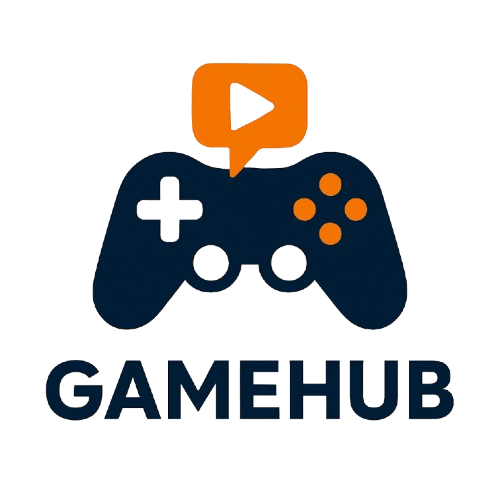
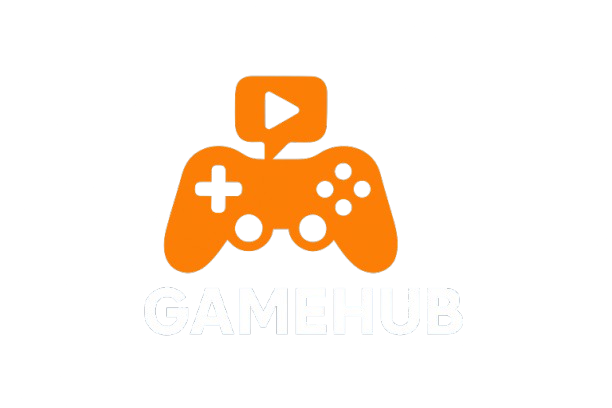
add responsiveness for all devices

Changed region(s): [[0.18, 0.1176, 0.84, 0.6765], [0.09, 0.7059, 0.93, 0.8529]]

diff --git a/src/Components/Slider.jsx b/src/Components/Slider.jsx
@@ -22,18 +22,17 @@ const Slider = () => {
         modules={[Autoplay, Pagination, Navigation]}
         className="mySwiper"
       >
-        <SwiperSlide><img className='w-[1500px] h-[500px] object-fit transition-transform duration-500 hover:scale-95' src="https://m.media-amazon.com/images/I/91rTxm40jwL.jpg" alt="" /></SwiperSlide>
-        <SwiperSlide><img className='w-[1500px] h-[500px] object-fit transition-transform duration-500 hover:scale-95' src="https://gmedia.playstation.com/is/image/SIEPDC/apex-legends-listing-thumb-01-ps4-en-29oct20?$facebook$" alt="" /></SwiperSlide>
-        <SwiperSlide><img className='w-[1500px] h-[500px] object-fit transition-transform duration-500 hover:scale-95' src="https://static0.xdaimages.com/wordpress/wp-content/uploads/2018/06/pubg.jpg?w=1200&h=675&fit=crop" alt="" /></SwiperSlide>
-        <SwiperSlide><img className='w-[1500px] h-[500px] object-fit transition-transform duration-500 hover:scale-95' src="https://shared.akamai.steamstatic.com/store_item_assets/steam/apps/1517290/capsule_616x353.jpg?t=1761752400" alt="" /></SwiperSlide>
-        <SwiperSlide><img className='w-[1500px] h-[500px] object-fit transition-transform duration-500 hover:scale-95' src="https://www.riotgames.com/darkroom/1440/d0807e131a84f2e42c7a303bda672789:3d02afa7e0bfb75f645d97467765b24c/valorant-offwhitelaunch-keyart.jpg" alt="" /></SwiperSlide>
-        <SwiperSlide><img className='w-[1500px] h-[500px] object-fit transition-transform duration-500 hover:scale-95' src="https://www.csgoroll.com/blog/content/images/size/w2000/2025/01/counter-strike-2-pc-game-steam-cover.jpg" alt="" /></SwiperSlide>
-        <SwiperSlide><img className='w-[1500px] h-[500px] object-fit transition-transform duration-500 hover:scale-95' src="https://shared.akamai.steamstatic.com/store_item_assets/steam/apps/292030/ad9240e088f953a84aee814034c50a6a92bf4516/header.jpg?t=1756366569" alt="" /></SwiperSlide>
-        <SwiperSlide><img className='w-[1500px] h-[500px] object-fit transition-transform duration-500 hover:scale-95' src="https://shared.akamai.steamstatic.com/store_item_assets/steam/apps/570/capsule_616x353.jpg?t=1762820658" alt="" /></SwiperSlide>
-        <SwiperSlide><img className='w-[1500px] h-[500px] object-fit transition-transform duration-500 hover:scale-95' src="https://i.ebayimg.com/images/g/oyEAAOSwIBdijBIx/s-l400.jpg" alt="" /></SwiperSlide>
-        <SwiperSlide><img className='w-[1500px] h-[500px] object-fit transition-transform duration-500 hover:scale-95' src="https://cdnb.artstation.com/p/assets/covers/images/076/962/927/large/nicholas-maxson-francombe-nicholas-maxson-francombe-2023-10-26-keyartexp33-full-1.jpg?1718223251" alt="" /></SwiperSlide>
-        <SwiperSlide><img className='w-[1500px] h-[500px] object-fit transition-transform duration-500 hover:scale-95' src="https://www.bluedogposters.com.au/cdn/shop/collections/Minecraft_posters_online_750x.progressive.jpg?v=1688105706" alt="" /></SwiperSlide>
-
+        <SwiperSlide><img className='w-full h-[200px] md:h-[300px] lg:h-[500px] object-fit transition-transform duration-500 hover:scale-95' src="https://m.media-amazon.com/images/I/91rTxm40jwL.jpg" alt="" /></SwiperSlide>
+        <SwiperSlide><img className='w-full h-[200px] md:h-[300px] lg:h-[500px] object-fit transition-transform duration-500 hover:scale-95' src="https://gmedia.playstation.com/is/image/SIEPDC/apex-legends-listing-thumb-01-ps4-en-29oct20?$facebook$" alt="" /></SwiperSlide>
+        <SwiperSlide><img className='w-full h-[200px] md:h-[300px] lg:h-[500px] object-fit transition-transform duration-500 hover:scale-95' src="https://static0.xdaimages.com/wordpress/wp-content/uploads/2018/06/pubg.jpg?w=1200&h=675&fit=crop" alt="" /></SwiperSlide>
+        <SwiperSlide><img className='w-full h-[200px] md:h-[300px] lg:h-[500px] object-fit transition-transform duration-500 hover:scale-95' src="https://shared.akamai.steamstatic.com/store_item_assets/steam/apps/1517290/capsule_616x353.jpg?t=1761752400" alt="" /></SwiperSlide>
+        <SwiperSlide><img className='w-full h-[200px] md:h-[300px] lg:h-[500px] object-fit transition-transform duration-500 hover:scale-95' src="https://www.riotgames.com/darkroom/1440/d0807e131a84f2e42c7a303bda672789:3d02afa7e0bfb75f645d97467765b24c/valorant-offwhitelaunch-keyart.jpg" alt="" /></SwiperSlide>
+        <SwiperSlide><img className='w-full h-[200px] md:h-[300px] lg:h-[500px] object-fit transition-transform duration-500 hover:scale-95' src="https://www.csgoroll.com/blog/content/images/size/w2000/2025/01/counter-strike-2-pc-game-steam-cover.jpg" alt="" /></SwiperSlide>
+        <SwiperSlide><img className='w-full h-[200px] md:h-[300px] lg:h-[500px] object-fit transition-transform duration-500 hover:scale-95' src="https://shared.akamai.steamstatic.com/store_item_assets/steam/apps/292030/ad9240e088f953a84aee814034c50a6a92bf4516/header.jpg?t=1756366569" alt="" /></SwiperSlide>
+        <SwiperSlide><img className='w-full h-[200px] md:h-[300px] lg:h-[500px] object-fit transition-transform duration-500 hover:scale-95' src="https://shared.akamai.steamstatic.com/store_item_assets/steam/apps/570/capsule_616x353.jpg?t=1762820658" alt="" /></SwiperSlide>
+        <SwiperSlide><img className='w-full h-[200px] md:h-[300px] lg:h-[500px] object-fit transition-transform duration-500 hover:scale-95' src="https://i.ebayimg.com/images/g/oyEAAOSwIBdijBIx/s-l400.jpg" alt="" /></SwiperSlide>
+        <SwiperSlide><img className='w-full h-[200px] md:h-[300px] lg:h-[500px] object-fit transition-transform duration-500 hover:scale-95' src="https://cdnb.artstation.com/p/assets/covers/images/076/962/927/large/nicholas-maxson-francombe-nicholas-maxson-francombe-2023-10-26-keyartexp33-full-1.jpg?1718223251" alt="" /></SwiperSlide>
+        <SwiperSlide><img className='w-full h-[200px] md:h-[300px] lg:h-[500px] object-fit transition-transform duration-500 hover:scale-95' src="https://www.bluedogposters.com.au/cdn/shop/collections/Minecraft_posters_online_750x.progressive.jpg?v=1688105706" alt="" /></SwiperSlide>
       </Swiper>
     </div>
   )

diff --git a/src/Pages/GameDetails.jsx b/src/Pages/GameDetails.jsx
@@ -11,74 +11,74 @@ const GameDetails = () => {
     if (loading) return <div>Game not found</div>;
   
     return (
-    <div className="min-h-screen bg-gray-900 text-white">
-      
-      <div className="relative h-96 sm:h-[500px] overflow-hidden">
-        <img
-          src={game.coverPhoto}
-          alt={game.title}
-          className="w-full h-full object-cover brightness-50"
-        />
-        
-        <div className="absolute inset-0 bg-linear-to-t from-gray-900 via-gray-900/60 to-transparent" />
-        
-        <div className="absolute bottom-0 left-0 right-0 p-6 sm:p-10 max-w-6xl mx-auto">
-          <div className="flex flex-col sm:flex-row items-start sm:items-end gap-8">
-            <img
-              src={game.coverPhoto}
-              alt={game.title}
-              className="w-40 h-56 sm:w-48 sm:h-64 rounded-xl shadow-2xl border-4 border-gray-800 object-cover"
-            />
-            
-            <div className="flex-1">
-              <h1 className="text-4xl sm:text-6xl font-black tracking-tight drop-shadow-lg">
+   <div className="min-h-screen bg-gray-900 text-white">
+  {/* Hero Section */}
+  <div className="relative h-96 sm:h-[500px] lg:h-[600px] overflow-hidden">
+    <img
+      src={game.coverPhoto}
+      alt={game.title}
+      className="absolute inset-0 w-full h-full object-cover brightness-50"
+    />
+
+    {/* Fixed gradient overlay */}
+    <div className="absolute inset-0 bg-gradient-to-t from-gray-900 via-gray-900/60 to-transparent" />
+
+    <div className="absolute inset-x-0 bottom-0 p-6 sm:p-8 lg:p-12">
+      <div className="max-w-7xl mx-auto">
+        <div className="flex flex-col gap-6 sm:gap-8 lg:flex-row lg:items-end">
+          {/* Game Cover */}
+          
+
+          {/* Text Content */}
+          <div className="flex-1 space-y-4 lg:space-y-6">
+            <div>
+              <h1 className="text-3xl sm:text-5xl lg:text-6xl font-black tracking-tight drop-shadow-2xl">
                 {game.title}
               </h1>
-              
-              <p className="text-xl sm:text-2xl text-gray-300 mt-2 font-medium">
+              <p className="text-lg sm:text-xl lg:text-2xl text-gray-300 mt-2 font-medium">
                 by <span className="text-purple-400">{game.developer}</span>
               </p>
-
-              <div className="flex flex-wrap gap-3 mt-6">
-                <span className="px-4 py-2 bg-purple-600/80 backdrop-blur rounded-full text-sm font-semibold">
-                  {game.category}
-                </span>
-                <span className="px-4 py-2 bg-yellow-500/20 backdrop-blur rounded-full text-sm font-semibold flex items-center gap-2">
-                  <Star className="w-4 h-4 fill-yellow-500 text-yellow-500" />
-                  {game.ratings} / 5.0
-                </span>
-              </div>
-
-              <a
-                href={game.downloadLink}
-                target="_blank"
-                rel="noopener noreferrer"
-                className="inline-flex items-center gap-3 mt-8 px-8 py-4 bg-linear-to-r from-purple-600 to-pink-600 hover:from-purple-500 hover:to-pink-500 rounded-xl font-bold text-lg shadow-xl transition-all transform hover:scale-105"
-              >
-                <Download className="w-6 h-6" />
-                Download Now
-              </a>
             </div>
+
+            <div className="flex flex-wrap gap-3">
+              <span className="px-4 py-2 bg-purple-600/80 backdrop-blur rounded-full text-sm font-semibold">
+                {game.category}
+              </span>
+              <span className="px-4 py-2 bg-yellow-500/20 backdrop-blur rounded-full text-sm font-semibold flex items-center gap-2">
+                <Star className="w-4 h-4 fill-yellow-500 text-yellow-500" />
+                {game.ratings} / 5.0
+              </span>
+            </div>
+
+            <a
+              href={game.downloadLink}
+              target="_blank"
+              rel="noopener noreferrer"
+              className="inline-flex items-center gap-3 px-6 py-3 sm:px-8 sm:py-4 bg-gradient-to-r from-purple-600 to-pink-600 hover:from-purple-500 hover:to-pink-500 rounded-xl font-bold text-lg shadow-xl transition-all transform hover:scale-105"
+            >
+              <Download className="w-5 h-5 sm:w-6 sm:h-6" />
+              Download Now
+            </a>
           </div>
         </div>
       </div>
+    </div>
+  </div>
 
-      {/* Content Section */}
-      <div className="max-w-5xl mx-auto px-6 py-12 -mt-16 relative z-10">
-        <div className="bg-gray-800/90 backdrop-blur-lg rounded-3xl shadow-2xl border border-gray-700 p-8 sm:p-12">
-          <h2 className="text-3xl font-bold mb-6 flex items-center gap-3">
-            <Globe className="w-8 h-8 text-purple-400" />
-            About This Game
-          </h2>
+  {/* About Card - Now properly responsive */}
+  <div className="max-w-7xl mx-auto px-6 py-16 -mt-12 sm:-mt-20 lg:-mt-32 relative z-10">
+    <div className="bg-gray-800/90  backdrop-blur-lg rounded-3xl shadow-2xl border md:mt-10 border-gray-700 p-8 sm:p-10 lg:p-12">
+      <h2 className="text-2xl sm:text-3xl font-bold mb-6 flex items-center gap-3">
+        <Globe className="w-7 h-7 sm:w-8 sm:h-8 text-purple-400" />
+        About This Game
+      </h2>
 
-          <p className="text-gray-300 leading-relaxed text-lg whitespace-pre-line">
-            {game.description}
-          </p>
-
-         
-          </div>
-        </div>
-      </div>
+      <p className="text-gray-300 leading-relaxed text-base sm:text-lg whitespace-pre-line">
+        {game.description}
+      </p>
+    </div>
+  </div>
+</div>
     
   );
 }

diff --git a/src/Components/Navbar.jsx b/src/Components/Navbar.jsx
@@ -4,6 +4,7 @@ import { AuthContext } from '../Provider/AuthProvider';
 import { Key, LogIn, LogOut } from 'lucide-react';
 import { signOut } from 'firebase/auth';
 import auth from '../firebase/firebase.config';
+import { scale } from 'motion';
 
 const Navbar = () => {
   const {user} = useContext(AuthContext)
@@ -13,7 +14,7 @@ const Navbar = () => {
   } 
   return (
     <div>
-      <div className="navbar z-10 bg-[#0f172a] text-gray-300 border-t border-white/10 w-full text-grey font-bold shadow-sm">
+      <div className="navbar z-10 bg-[#0f172a] text-orange-500  border-t border-white/10 w-full text-grey font-bold shadow-sm">
         <div className="navbar-start">
           <div className="dropdown">
             <div tabIndex={0} role="button" className="btn btn-ghost lg:hidden">
@@ -48,8 +49,8 @@ const Navbar = () => {
               </li>
             </ul>
           </div>
-          <NavLink className="flex btn btn-ghost">
-            <img className="h-16 w-16" src="../gh.png" alt="" />
+          <NavLink className="flex lg:pl-4">
+            <img className="h-16 w-24 hover:scale-120"  src="../gh.png" alt="" />
           </NavLink>
         </div>
         <div className="navbar-center hidden lg:flex">
@@ -63,6 +64,7 @@ const Navbar = () => {
             <li>
               <Link to="/news">News</Link>
             </li>
+            
           </ul>
         </div>
 
@@ -70,23 +72,23 @@ const Navbar = () => {
           {user && (
             <div className='flex gap-2'>
               <Link to="/profile"><img className='w-10 h-10 rounded-4xl hover:scale-110' src={user.photoURL} alt="" /></Link>
-              <button onClick={handleSignOut} className="btn border-0 shadow text-white bg-black"><LogOut /> Logout</button>
+              <button onClick={handleSignOut} className="btn border-0 shadow rounded-3xl gap-1 hover:scale-110 text-white bg-orange-500"> Logout</button>
             </div>
           )}
 
           {!user && (
-            <div>
+            <div className='space-x-2'>
               <Link
                 to="/login"
-                className="btn border-0 shadow text-white bg-black"
+                className="btn border-0 rounded-3xl shadow hover:scale-110 text-white bg-orange-500"
               >
-                <LogIn /> Login
+                 Login
               </Link>
               <Link
                 to="/register"
-                className="btn border-0 shadow text-white bg-black"
+                className="btn border-0 rounded-3xl shadow  hover:scale-110 text-white bg-orange-500"
               >
-                <Key /> Register
+                 Register
               </Link>
             </div>
           )}

diff --git a/src/Components/GameCard.jsx b/src/Components/GameCard.jsx
@@ -7,8 +7,8 @@ import { motion } from "motion/react"
 const GameCard = ({game}) => {
 
     return (
-        <motion.Link initial={ { scale:0.5 } } animate={{scale: 1, transition: { duration: 1 }}} to={`/game/${game.id}`} className="card image-full w-96 h-96 shadow-xl rounded-xl overflow-hidden group">
-
+        <motion.div initial={ { scale:0.5 } } animate={{scale: 1, transition: { duration: 1 }}} >
+            <Link to={`/game/${game.id}`} className="card image-full md:w-96 md:h-96 shadow-xl rounded-xl overflow-hidden group">
             <figure className="absolute inset-0">
                 <img
                     src={game.coverPhoto}
@@ -20,14 +20,14 @@ const GameCard = ({game}) => {
             <div className="card-body relative p-0 justify-end">
                 <div className="absolute inset-0 bg-linear-to-t from-black/90 via-black/30 to-transparent"></div>
                 <div className="relative z-10 p-6 space-y-3">
-                    <h2 className="card-title text-2xl text-white drop-shadow-lg">{game.title}</h2>
+                    <h2 className="card-title md:text-2xl text-white drop-shadow-lg">{game.title}</h2>
                     <div className="flex justify-between items-center text-white">
-                        <span className="px-4 py-2 bg-white/20 backdrop-blur-sm rounded-full text-sm font-medium border border-white/30">{game.category}</span>
+                        <span className="px-2 md:px-4 py-2 bg-white/20 backdrop-blur-sm rounded-full text-sm font-medium border border-white/30">{game.category}</span>
                         <span className="flex items-center gap-2 text-lg font-semibold"><FaStar className="text-yellow-400 drop-shadow" /> {game.ratings} </span>
                     </div>
                 </div>
-            </div>
-</motion.Link>
+            </div></Link>
+</motion.div>
   )
 }
 

diff --git a/src/Components/Newsletter.jsx b/src/Components/Newsletter.jsx
@@ -3,13 +3,13 @@ import React from 'react'
 const Newsletter = () => {
   return (
     <div>
-      <section className="py-20 pb-24 lg:pb-32 bg-gradient-to-b from-slate-900 via-blue-950 to-indigo-950">
+      <section className="py-10 md:py-16 lg:py-20 pb-24 lg:pb-32 bg-linear-to-b from-slate-900 via-blue-950 to-indigo-950">
   <div className="max-w-4xl mx-auto px-6 text-center">
-    <h2 className="text-4xl md:text-5xl font-bold text-white mb-6">
-      Never miss an update
+    <h2 className="text-4xl md:text-5xl font-bold text-orange-500 mb-6">
+      Never miss an update!
     </h2>
     
-    <p className="text-xl text-white/90 mb-10 max-w-2xl mx-auto leading-relaxed">
+    <p className="md:text-xl text-white/90 mb-10 max-w-2xl mx-auto leading-relaxed">
       Join 25,000+ subscribers and get the latest news, insights, and exclusive content 
       delivered straight to your inbox every week.
     </p>
@@ -21,7 +21,7 @@ const Newsletter = () => {
         className="flex-1 px-6 py-4 rounded-xl text-gray-900 placeholder-gray-500 focus:outline-none ring-4 focus:ring-white/30"
       />
       
-      <button className="px-8 py-4 bg-white text-purple-700 font-semibold rounded-xl hover:bg-gray-50 transition whitespace-nowrap">
+      <button className="px-8 py-4 bg-orange-500 text-white font-semibold hover:scale-110 rounded-xl transition whitespace-nowrap">
         Subscribe Now
       </button>
     </div>

diff --git a/src/Pages/Profile.jsx b/src/Pages/Profile.jsx
@@ -5,24 +5,24 @@ const Profile = () => {
     const {user} = useContext(AuthContext)
     console.log(user)
   return (
-    <div className="max-w-sm mx-auto bg-white rounded-xl shadow-lg overflow-hidden">
-      <div className="bg-gradient-to-r from-indigo-500 to-purple-600 p-6 text-center">
+    <div className="max-w-sm mx-auto mt-10 bg-white rounded-xl shadow-lg overflow-hidden">
+      <div className="bg-[#0f172a] p-6 text-center">
         <img
           src={user.photoURL}
           alt="Profile"
-          className="w-32 h-32 rounded-full mx-auto border-4 border-white shadow-xl object-cover"
+          className="w-32 h-32 rounded-full mx-auto border-4 border-orange-500 shadow-xl object-cover"
         />
       </div>
 
       <div className="p-6 space-y-4">
         <div className="text-center">
-          <h2 className="text-2xl font-bold text-gray-800">{user.displayName}</h2>
+          <h2 className="text-2xl font-bold text-orange-500">{user.displayName}</h2>
           <p className="text-gray-500 text-sm">@{user.displayName}</p>
         </div>
 
         <div className="space-y-3 text-gray-700">
           <div className="flex items-center gap-3">
-            <span className="font-medium">Email:</span>
+            <span className="font-medium text-orange-500">Email:</span>
             <span className="text-gray-600">{user.email}</span>
           </div>
         </div>

diff --git a/src/Pages/Home.jsx b/src/Pages/Home.jsx
@@ -12,11 +12,11 @@ const Home = () => {
   return (
 
     <div>
-      <div className='pt-10' >
+      <div className='pt-4 md:pt-6 lg:pt-10' >
         <Slider />
-        <h1 className='text-[#627382] lg:mt-20 mb-2 text-3xl lg:text-5xl font-bold text-center'>Popular Games</h1>
-        <p className='text-[#627382] text-md lg:text-xl text-center pb-10'>Explore All Trending Games Played By Gamers</p>
-        <div className='grid grid-cols-2 md:grid-cols-3 lg:grid-cols-4 gap-4 lg:gap-6 lg:my-10 m-6 lg:mx-20'>
+        <h1 className='mt-8 lg:mt-20 mb-2 text-3xl md:text-5xl font-bold text-center text-orange-500'>Popular Games</h1>
+        <p className='text-[#627382] text-md md:text-lg lg:text-xl text-center md:pb-10'>Explore All Trending Games Played By Gamers</p>
+        <div className='grid grid-cols-1 md:grid-cols-2 lg:grid-cols-4 gap-4 lg:gap-6 lg:my-10 m-6 lg:mx-20'>
           {
             featuredGames.map(game => (
               <GameCard key={game.id} game={game} />

diff --git a/src/Components/Footer.jsx b/src/Components/Footer.jsx
@@ -4,10 +4,10 @@ const Footer = () => {
   return (
     <footer className="footer z-10 footer-vertical lg:footer-horizontal bg-[#0f172a] text-gray-300 border-t border-white/10 font-bold p-10">
   <aside>
-    <img className='h-20 w-20 border-' src="../gh.png" alt="" />
+    <img className='h-16 w-24' src="../gh.png" alt="" />
     <p>
-      GAMEHUB
-      <br />
+      
+      
       Copyright © 2025 - All right reserved
     </p>
   </aside>
